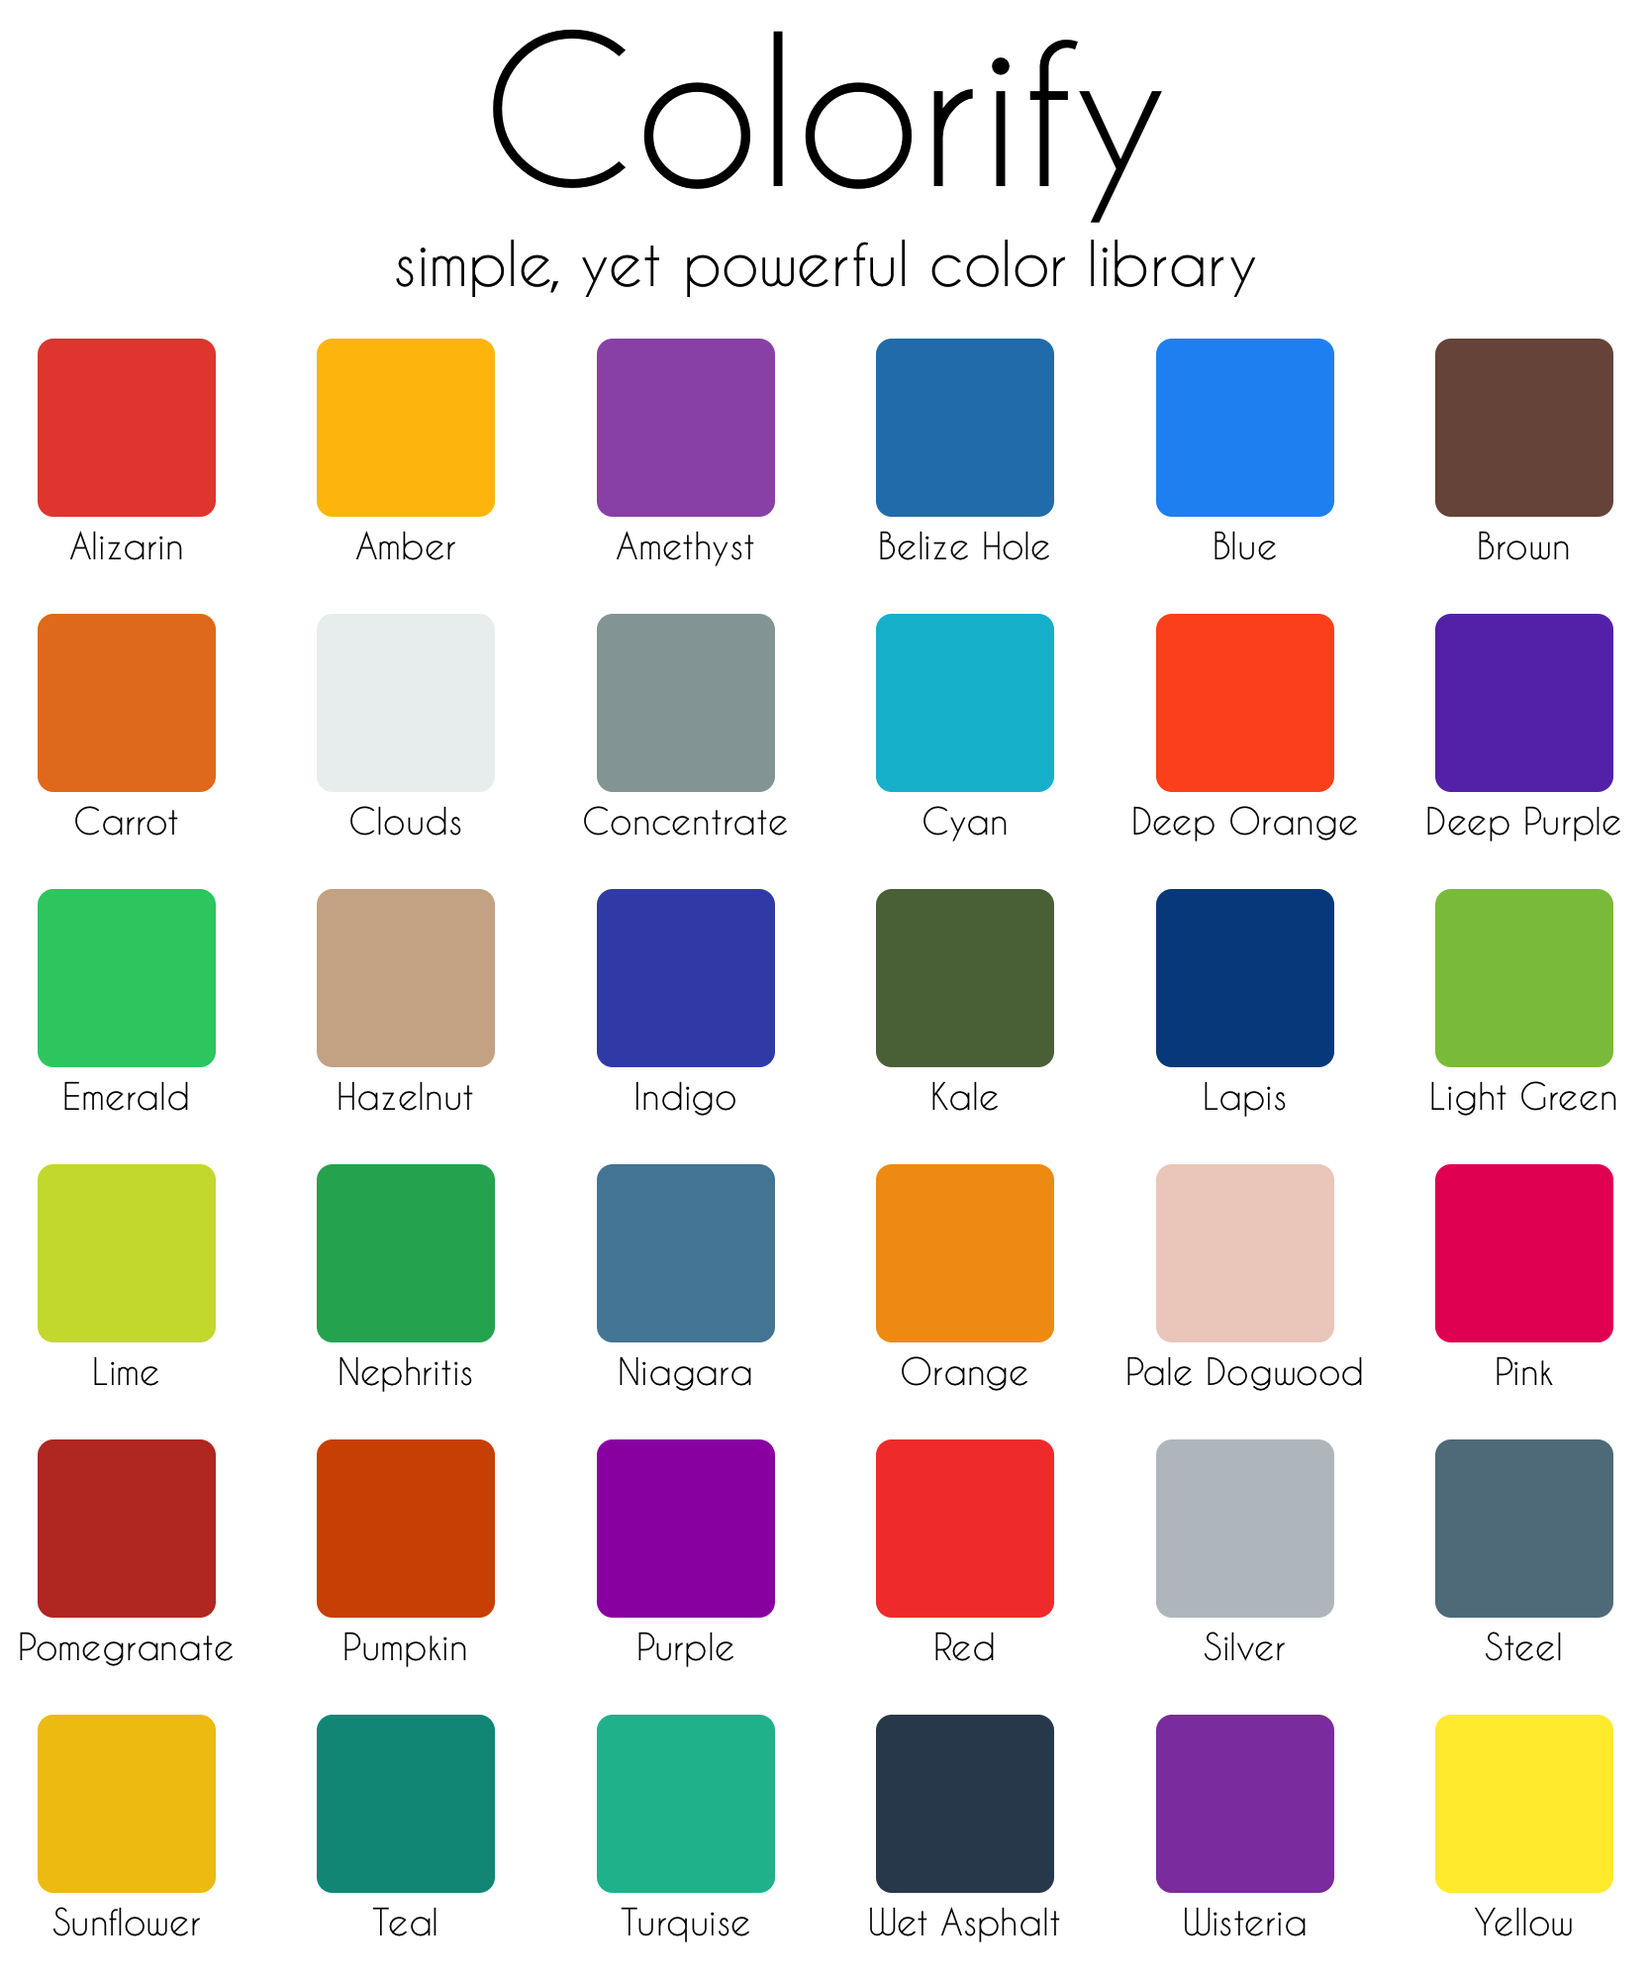
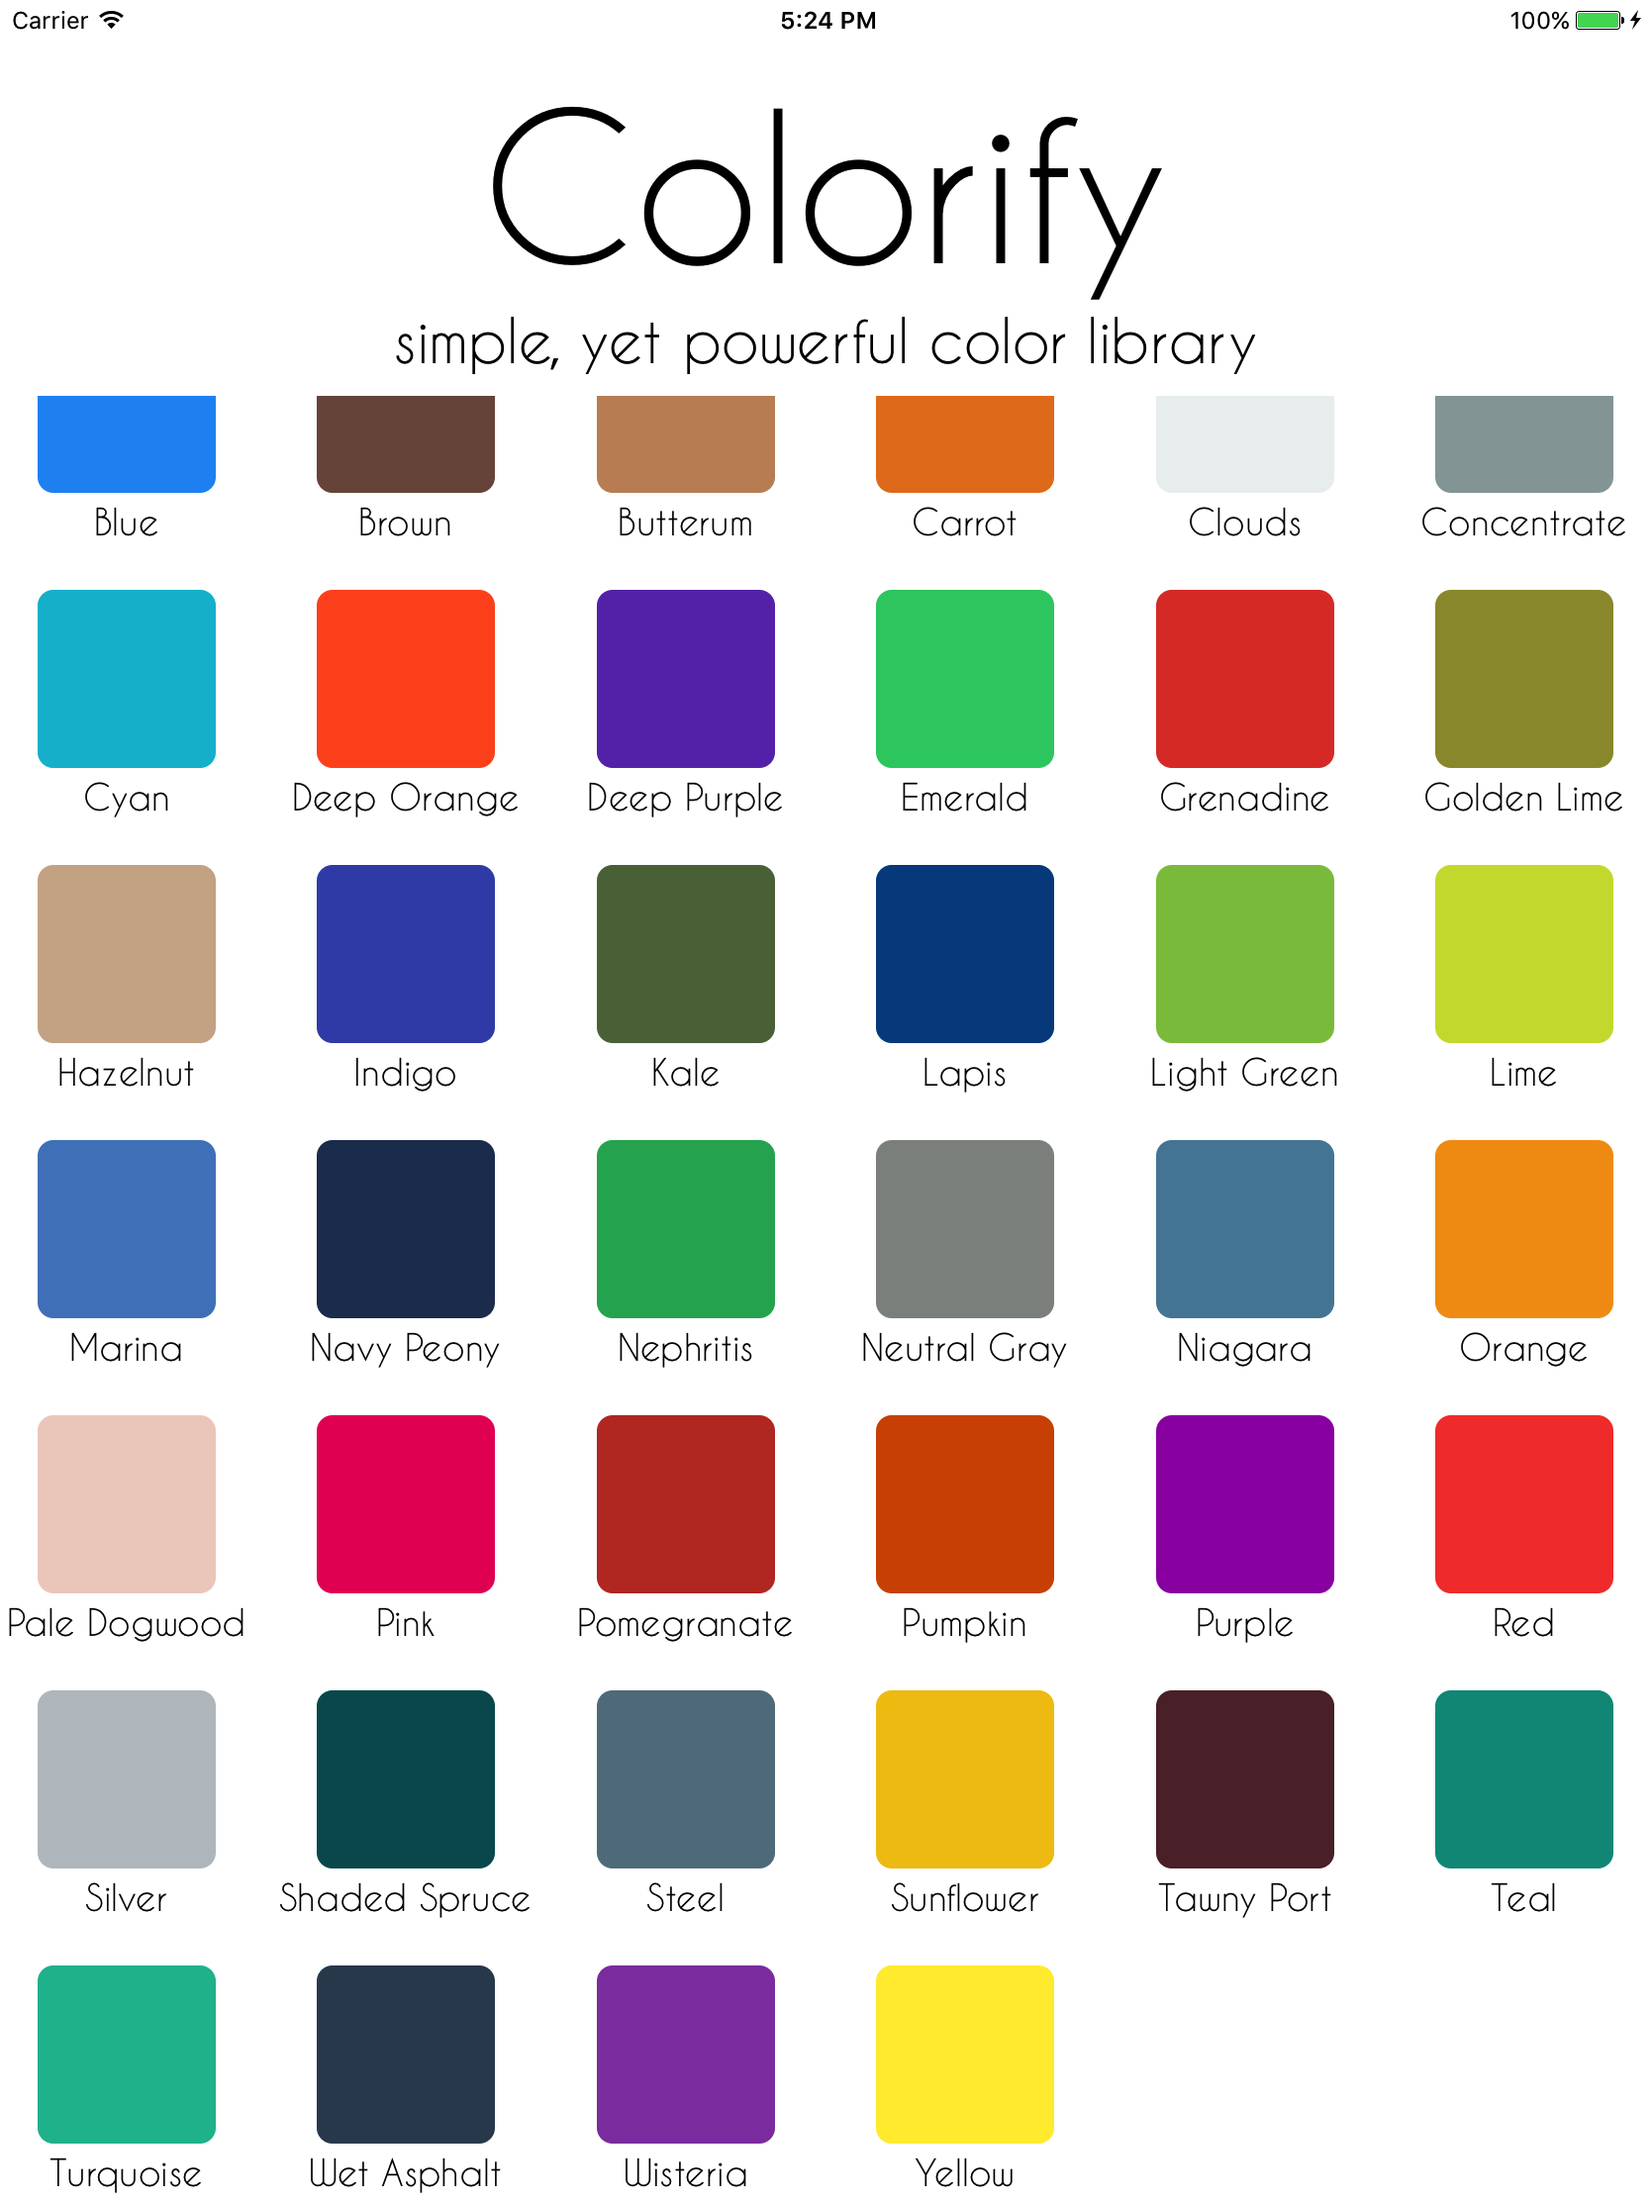
new colors

diff --git a/Colorify/Classes/Colorify.swift b/Colorify/Classes/Colorify.swift
@@ -1,6 +1,14 @@
+//
+//  File.swift
+//  Colorify
+//
+//  Created by Damian on 26/06/2017.
+//  Copyright © 2017 Damian. All rights reserved.
+//
+
 public struct Colorify
 {
-    public static var Turquise: UIColor
+    public static var Turquoise: UIColor
     {
         return UIColor.init(hex: "1abc9c")
     }
@@ -143,6 +151,46 @@ public struct Colorify
     public static var Niagara:UIColor
     {
         return UIColor.init(hex: "5487A4")
+    }
+    public static var Grenadine: UIColor
+    {
+        return UIColor.init(hex: "DF3F32")
+    }
+    public static var TawnyPort: UIColor
+    {
+        return UIColor.init(hex: "5C2C35")
+    }
+    public static var BalletSlipper: UIColor
+    {
+        return UIColor.init(hex: "EBCED5")
+    }
+    public static var Butterum: UIColor
+    {
+        return UIColor.init(hex: "C68F65")
+    }
+    public static var NavyPeony: UIColor
+    {
+        return UIColor.init(hex: "223A5E")
+    }
+    public static var NeutralGray: UIColor
+    {
+        return UIColor.init(hex: "8E918F")
+    }
+    public static var ShadedSpruce: UIColor
+    {
+        return UIColor.init(hex: "00585E")
+    }
+    public static var GoldenLime: UIColor
+    {
+        return UIColor.init(hex: "9A9738")
+    }
+    public static var Marina: UIColor
+    {
+        return UIColor.init(hex: "4F84C4")
+    }
+    public static var AutumnMaple: UIColor
+    {
+        return UIColor.init(hex: "C46215")
     }
 }
 
